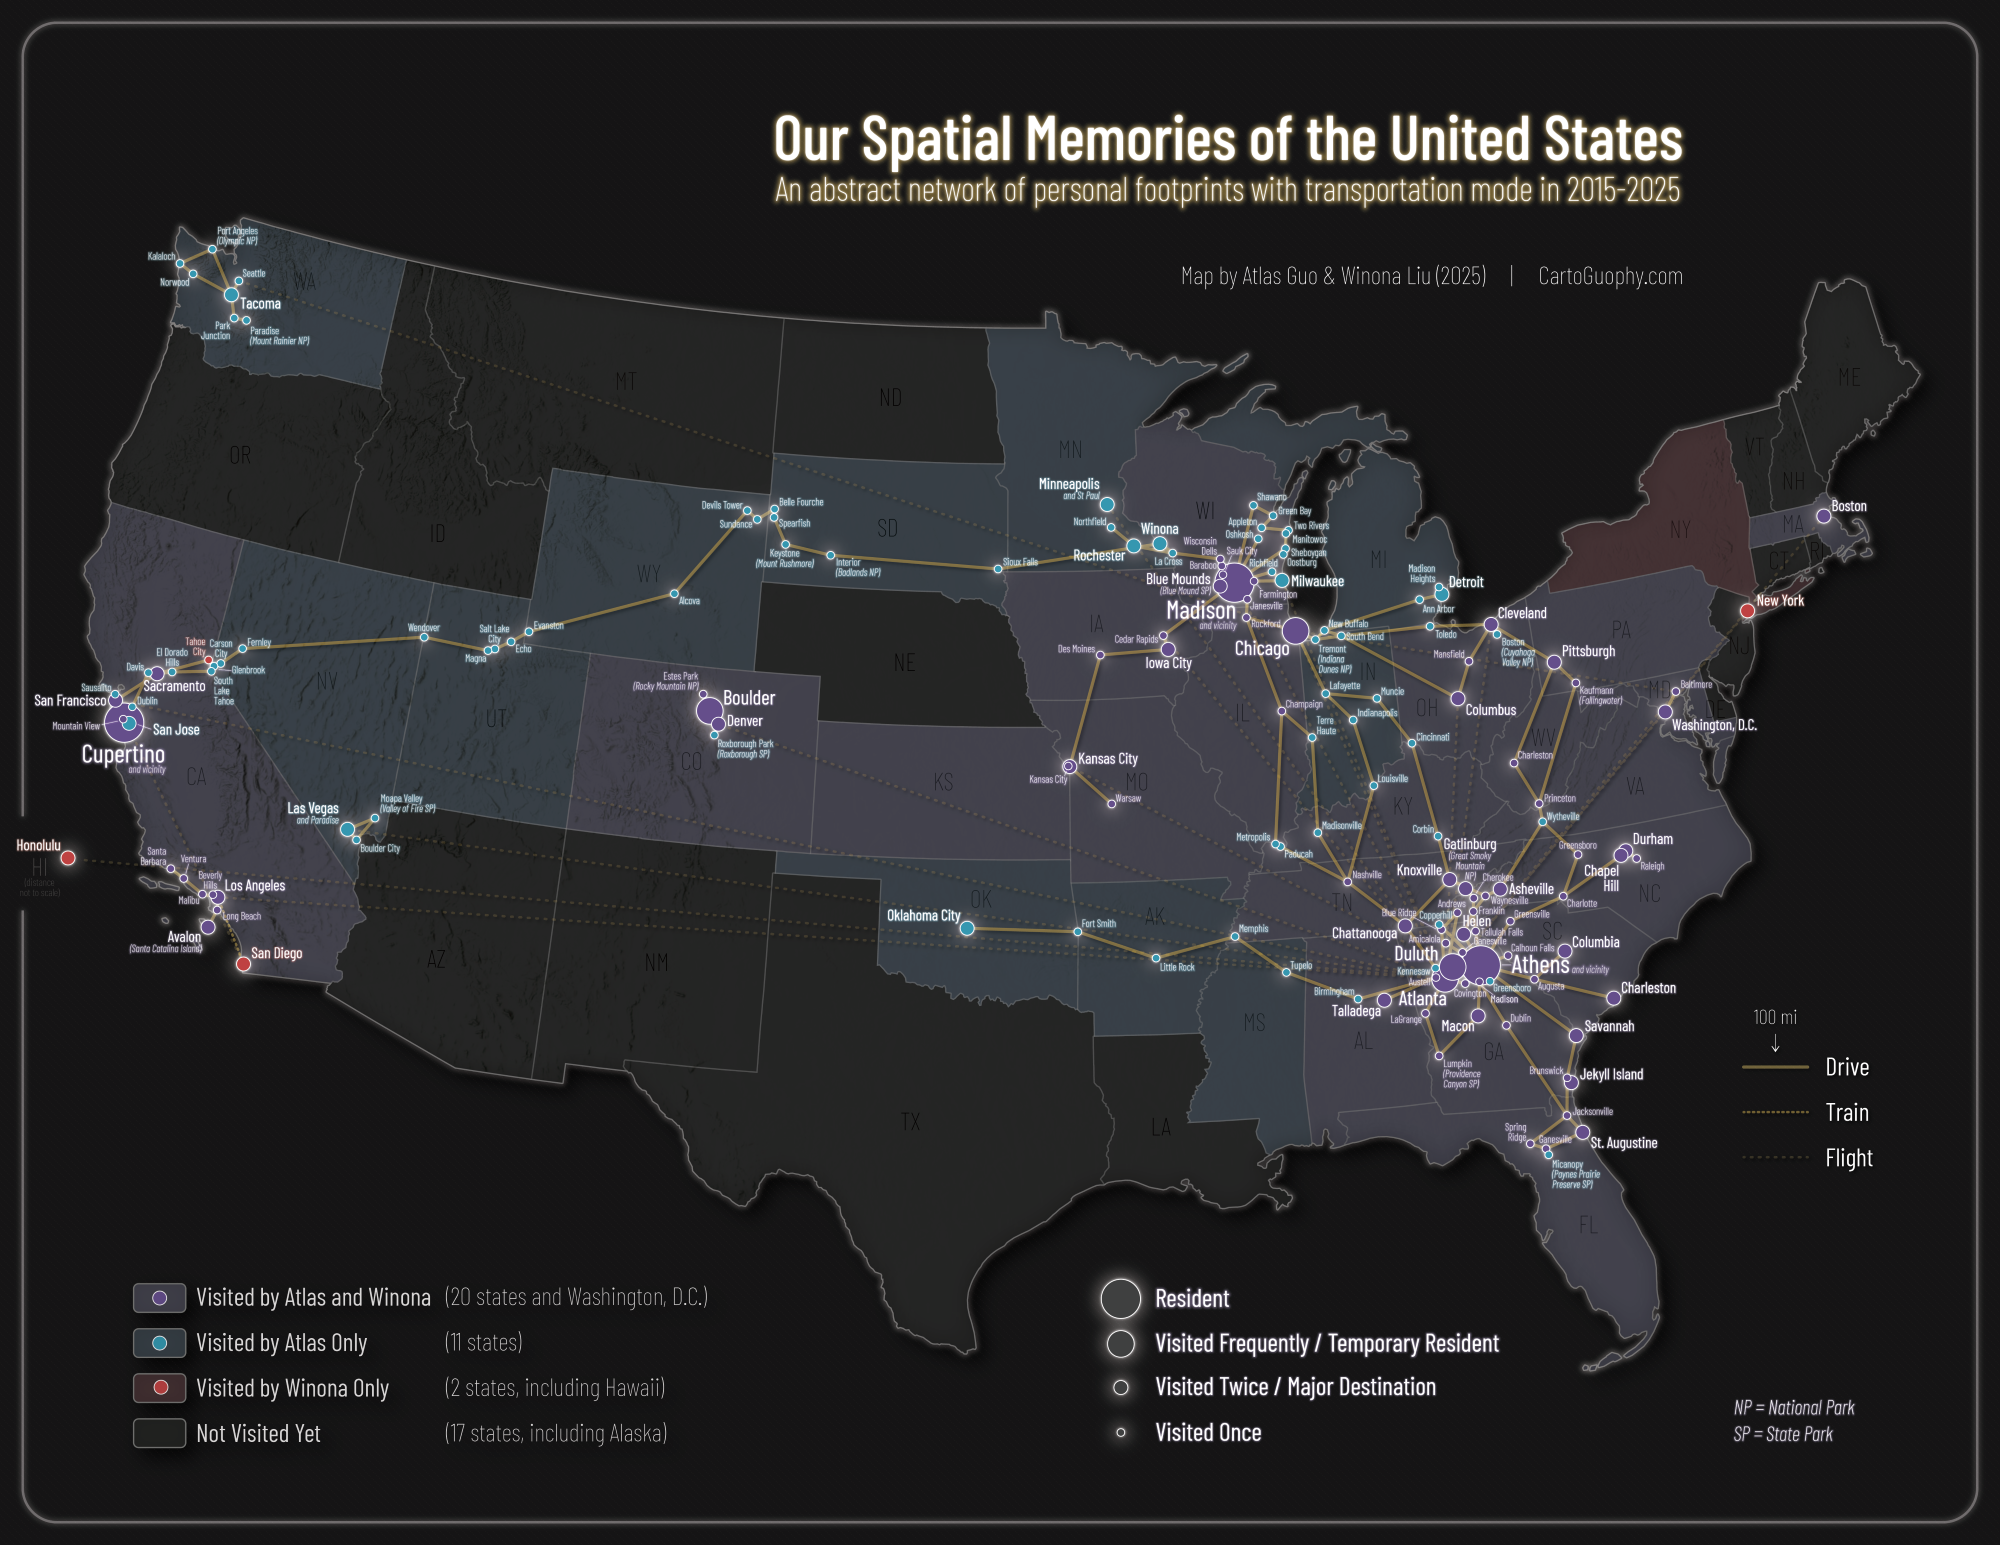
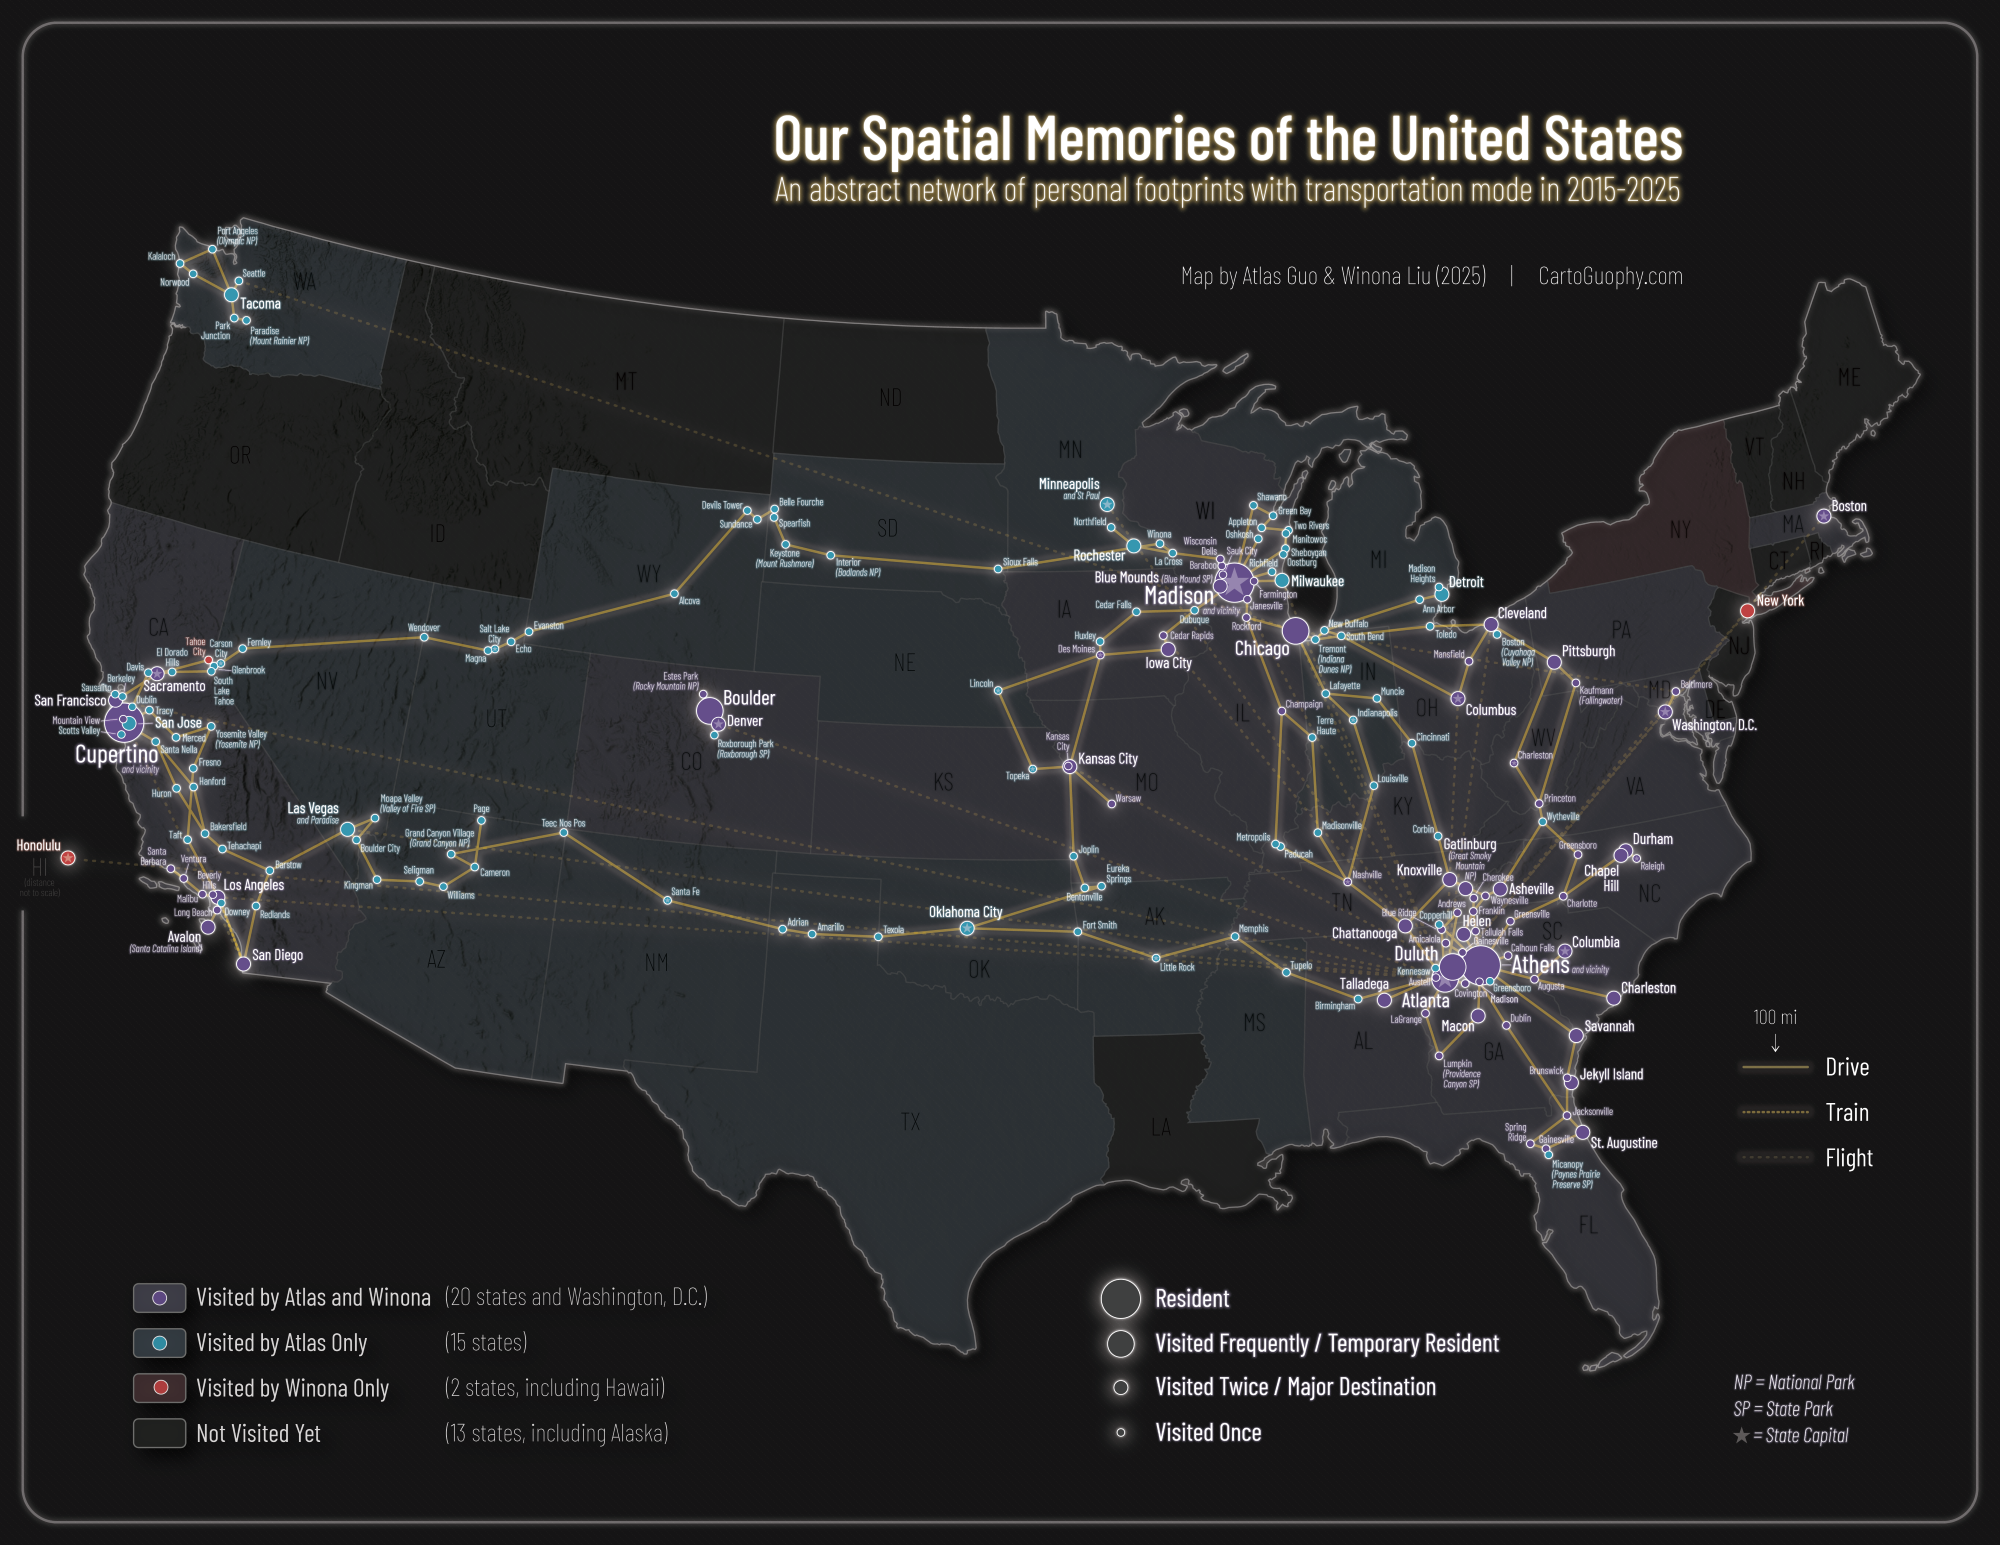
update of footprint map

diff --git a/maps/lego_north_america.html b/maps/lego_north_america.html
@@ -1,5 +1,6 @@
 <!DOCTYPE html>
 <html lang="en">
+
 	<head>
 		<meta charset="utf-8" />
 		<meta name="viewport" content="width=device-width, initial-scale=1, shrink-to-fit=yes" />
@@ -48,13 +49,8 @@
 			<div class="container">
 				<img src="..//assets/icon.png" alt="" height="22px" style="margin-right: 10px" />
 				<a class="navbar-brand js-scroll-trigger" href="../index.html">"CARTOGUOPHY"</a>
-				<button
-					class="navbar-toggler navbar-toggler-right"
-					type="button"
-					data-toggle="collapse"
-					data-target="#navbarResponsive"
-					aria-controls="navbarResponsive"
-					aria-expanded="false"
+				<button class="navbar-toggler navbar-toggler-right" type="button" data-toggle="collapse"
+					data-target="#navbarResponsive" aria-controls="navbarResponsive" aria-expanded="false"
 					aria-label="Toggle navigation">
 					<i class="fas fa-bars"></i>
 				</button>
@@ -126,9 +122,7 @@
 									float surfaces, while the terrain info below are still retrievable.
 								</p>
 								<img class="img-fluid d-block mx-auto" src="lego_nacis2024.jpg" alt="" />
-								<iframe
-									height="500"
-									width="100%"
+								<iframe height="500" width="100%"
 									src="https://www.youtube.com/embed/P-ueG7kW7nA?autoplay=0"></iframe>
 								<br />
 
@@ -146,7 +140,10 @@
 								<img class="img-fluid d-block mx-auto" src="lego_north_america_agsl_1.jpg" alt="" />
 								<img class="img-fluid d-block mx-auto" src="lego_north_america_agsl_2.jpg" alt="" />
 								<img class="img-fluid d-block mx-auto" src="lego_north_america_agsl_3.jpg" alt="" />
-
+								<p>
+									This map was featured on the Plenary Session of Esri User Conference 2025.
+								</p>
+								<img class="img-fluid d-block mx-auto" src="lego_north_america_esri.png" alt="" />
 								<p>
 									Click to view more of my
 									<a href="../web/lego.html" target="_blank">LEGO-Style maps</a>
@@ -176,12 +173,7 @@
 					</div>
 				</div>
 				<div class="form-group">
-					<textarea
-						placeholder="Message"
-						class="form-control"
-						name="message"
-						rows="4"
-						required
+					<textarea placeholder="Message" class="form-control" name="message" rows="4" required
 						onfocus="document.querySelector('input[name=fileName]').value = window.location.href.split('/').pop();"></textarea>
 				</div>
 				<div class="form-group">
@@ -244,13 +236,9 @@
 				<br />
 				<br />
 				<div style="display: none">
-					<script
-						type="text/javascript"
-						id="clustrmaps"
+					<script type="text/javascript" id="clustrmaps"
 						src="//clustrmaps.com/map_v2.js?d=Mcf9aHSkjA1rZDHRyrFo0Sy2HoxSqpV6CSoaQdvRIfQ&cl=ffffff&w=a"></script>
-					<script
-						type="text/javascript"
-						id="mapmyvisitors"
+					<script type="text/javascript" id="mapmyvisitors"
 						src="https://mapmyvisitors.com/map.js?cl=829b3f&w=150&t=n&d=ukSsjGdcShOQmlteFQf1g39TecSrYk58qZKTwcbeU54&co=212529&cmo=3d3d3d&cmn=bababa&ct=ffffff"></script>
 				</div>
 			</div>
@@ -268,4 +256,5 @@
 		<!-- Custom scripts for this template -->
 		<script src="..//js/main.js"></script>
 	</body>
+
 </html>

diff --git a/maps/footprint.html b/maps/footprint.html
@@ -85,7 +85,7 @@
 								<!-- Project Details Go Here -->
 								<h2 class="text-uppercase">Our Spatial Memories of the United States</h2>
 								<h5 class="text-muted">
-									An abstract network of personal footprints with transportation mode in 2015-2024
+									An abstract network of personal footprints with transportation mode since 2015
 								</h5>
 								<br />
 								<img class="img-fluid d-block mx-auto" src="footprint_screen.png" alt="" />
@@ -95,20 +95,18 @@
 								<br />
 								<br />
 								<p>
-									This map visualizes the footprint of me and my wife in the United States since 2015
-									(updated in 2025). An abstract network of out visited places are added at different
+									This map visualizes the footprint of me and my wife in the United States since 2015.
+									There are several historical versions, and
+									the latest update was in Sep 2025. An abstract network of our visited places (city
+									center instead of real visited location) is
+									added at different
 									levels: resident, visited frequently, visited twice / major destination, visited
-									once. Drive trips are displayed using regular lines, and flight trips are displayed
-									dashed lines. There might be further revisions with more details to be added in the
-									future.
+									once. Trips with different transportation mode are displayed using differently
+									styled lines, and state capitals are displayed with a star symbol.
 								</p>
-								<img class="img-fluid d-block mx-auto" src="footprint_1.jpg" alt="" />
-								<img class="img-fluid d-block mx-auto" src="footprint_2.jpg" alt="" />
-								<img class="img-fluid d-block mx-auto" src="footprint_3.jpg" alt="" />
-								<img class="img-fluid d-block mx-auto" src="footprint_4.jpg" alt="" />
-								<img class="img-fluid d-block mx-auto" src="footprint_5.jpg" alt="" />
-								<img class="img-fluid d-block mx-auto" src="footprint_6.jpg" alt="" />
-								<img class="img-fluid d-block mx-auto" src="footprint_7.jpg" alt="" />
+								<img class="img-fluid d-block mx-auto" src="footprint_1.png" alt="" />
+								<img class="img-fluid d-block mx-auto" src="footprint_2.png" alt="" />
+								<img class="img-fluid d-block mx-auto" src="footprint_3.png" alt="" />
 								<p>
 									This map won the Ordnance Survey Student Award by British Cartographic Society in
 									2025.
